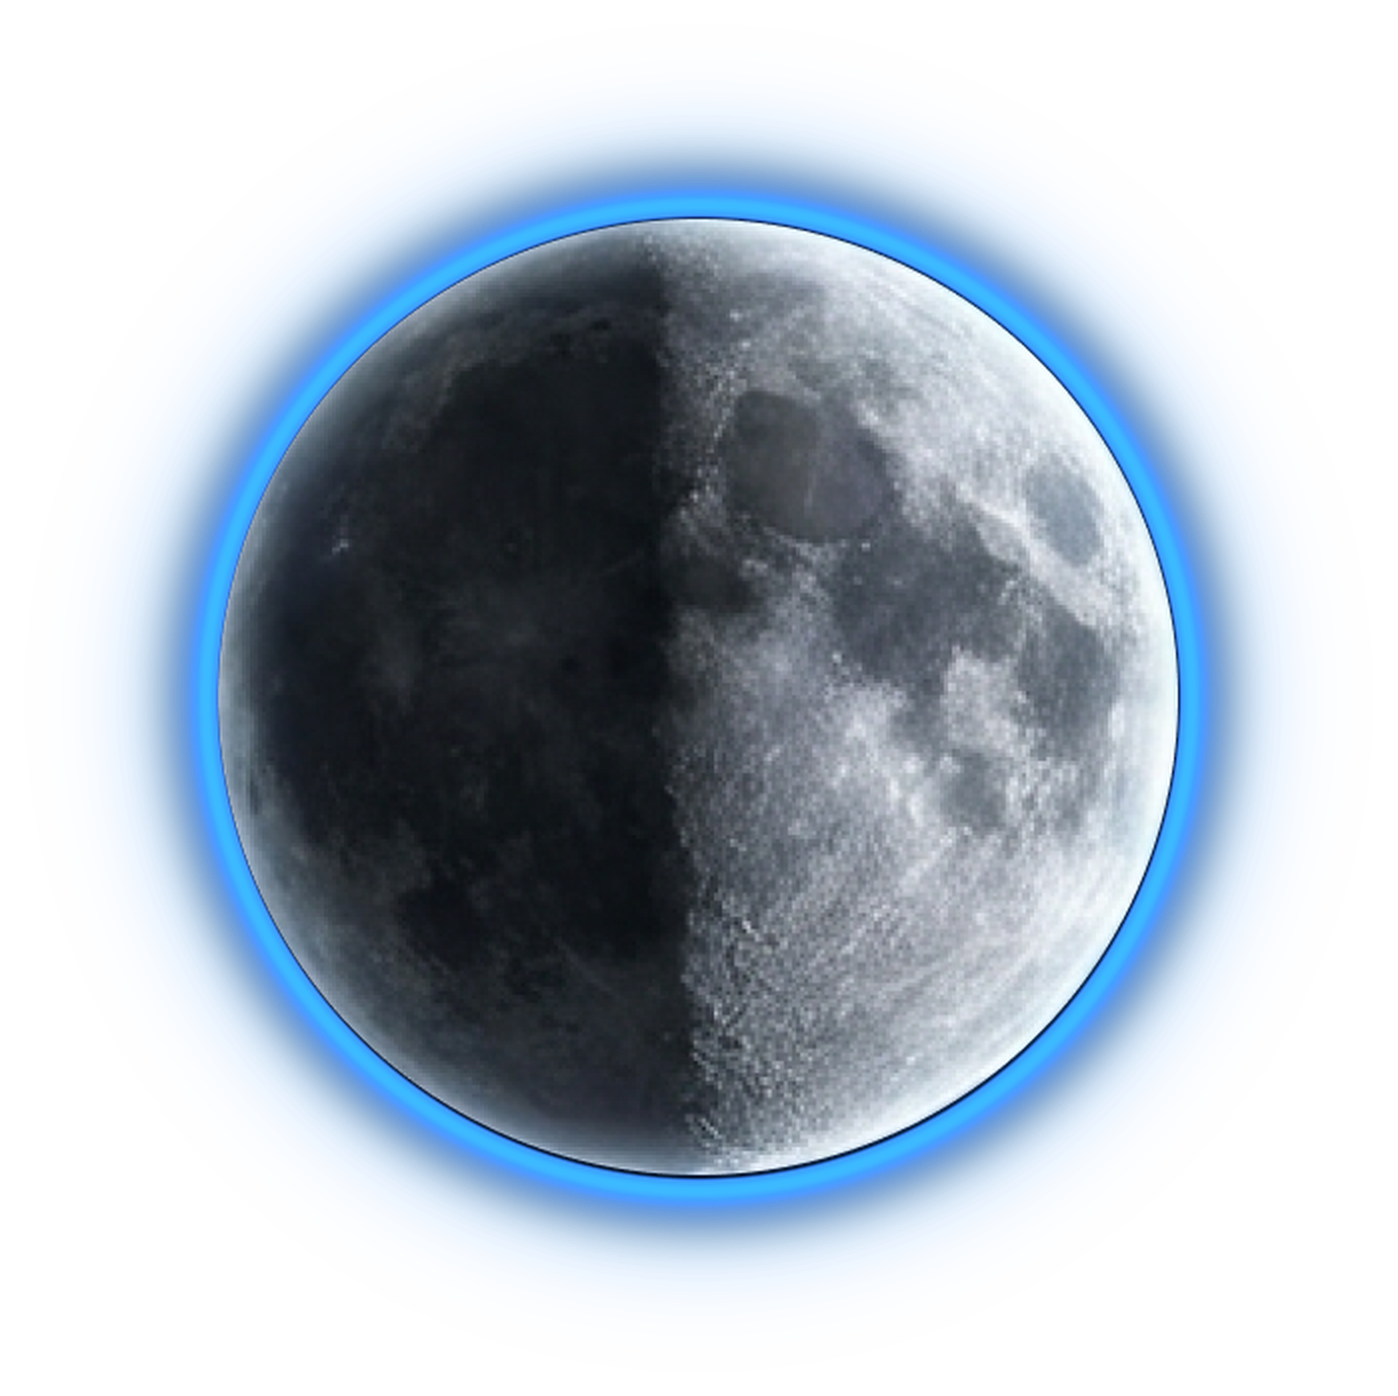
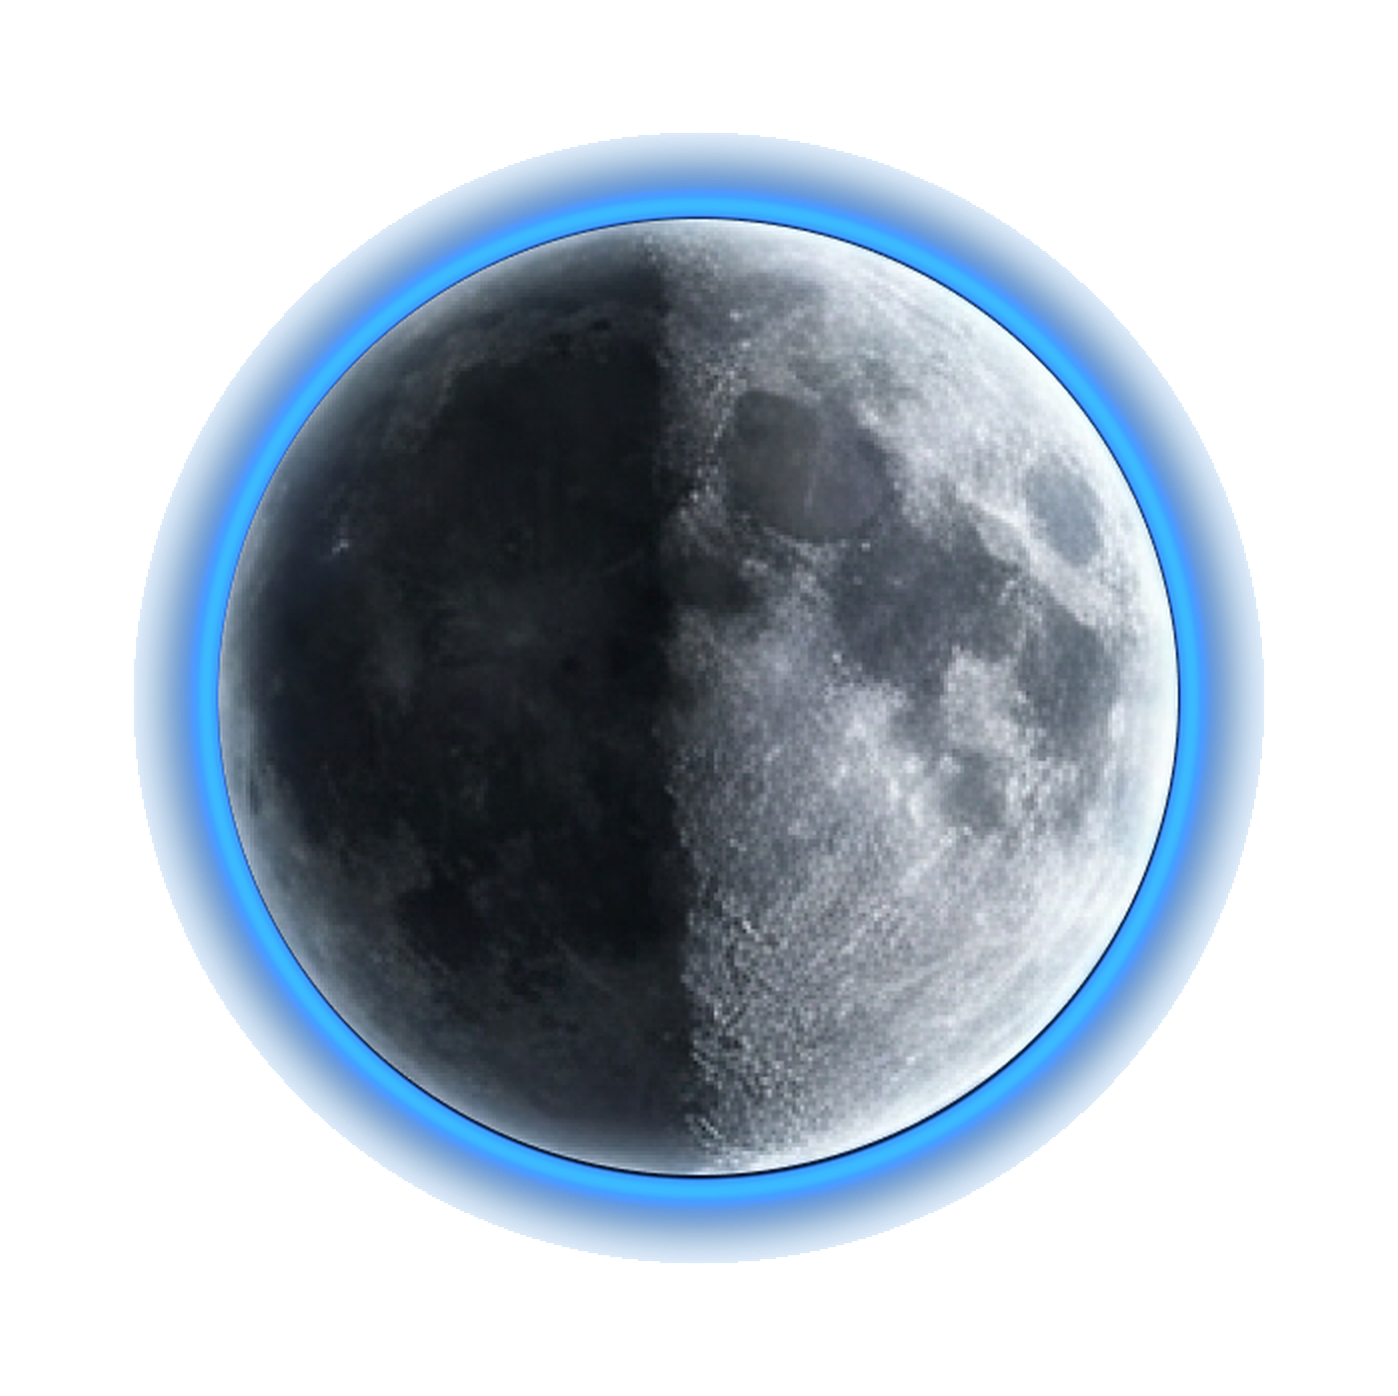
floating 3d moon

diff --git a/src/components/TodayScreen.jsx b/src/components/TodayScreen.jsx
@@ -1,11 +1,24 @@
-import React, { useState } from 'react';
+import React, { useState, useRef } from 'react';
 import { MoonPhase, SearchMoonPhase, MakeTime, EclipticGeoMoon } from 'astronomy-engine';
+import { motion, useScroll, useTransform } from 'framer-motion';
 import Moon from './Moon';
 import { tipsData } from '../data/dailyTips';
 
 export default function TodayScreen() {
   const today = new Date();
+  const scrollRef = useRef(null);
   
+  // Отслеживаем скролл внутри контейнера
+  const { scrollYProgress } = useScroll({
+    container: scrollRef,
+    offset: ["start start", "end start"]
+  });
+
+  // Применяем трансформации: скроллим вниз -> луна уменьшается и уезжает вверх
+  const moonScale = useTransform(scrollYProgress, [0, 0.4], [1, 0.5]);
+  const moonY = useTransform(scrollYProgress, [0, 0.4], [0, -100]);
+  const moonOpacity = useTransform(scrollYProgress, [0, 0.3], [1, 0]);
+
   const [inputText, setInputText] = useState('');
   const [messages, setMessages] = useState([]);
   const [isTyping, setIsTyping] = useState(false);
@@ -116,8 +129,9 @@ export default function TodayScreen() {
   return (
     <div className="w-full h-full relative overflow-hidden">
       
-      {/* СКРОЛЛ КОНТЕНТА (pt - отступ сверху, pb - отступ снизу под поле ввода) */}
+      {/* Привязываем ref для отслеживания скролла */}
       <div 
+        ref={scrollRef}
         className="w-full h-full overflow-y-auto px-4 pt-24 pb-32" 
         style={{ scrollbarWidth: 'none', msOverflowStyle: 'none' }}
       >
@@ -125,44 +139,52 @@ export default function TodayScreen() {
           {formattedDate}
         </div>
 
-        <Moon phase={astroData.phase} />
+        {/* Анимированная обертка вокруг Луны */}
+        <motion.div 
+          style={{ scale: moonScale, y: moonY, opacity: moonOpacity }}
+          className="origin-center"
+        >
+          <Moon />
+        </motion.div>
 
-        <div className="flex items-center justify-center gap-3 mt-0 mb-2">
-          <span className="text-3xl leading-none select-none">🌙</span>
-          <svg width="48" height="12" viewBox="0 0 48 12" fill="none" xmlns="http://www.w3.org/2000/svg">
-            <path d="M1 6H46M46 6L41 1M46 6L41 11" stroke="rgba(255,255,255,0.7)" strokeWidth="1.2" strokeLinecap="round" strokeLinejoin="round"/>
-          </svg>
-          <img src={`/zodiac/${astroData.zodiacImg}.png`} alt="Zodiac" className="w-8 h-8 object-contain rounded-md" />
-        </div>
-
-        <div className="text-center text-white text-[24px] font-medium mb-1" style={{ fontFamily: 'Gilroy, sans-serif' }}>
-          {astroData.phaseText}, {astroData.zodiacRu}, {astroData.lunarDay}-й день
-        </div>
-        
-        <div className="text-center mb-6">
-          <div className="text-[16px] text-gray-400 mb-1" style={{ fontFamily: 'Gilroy, sans-serif' }}>совет дня:</div>
-          <div className="text-[16px] text-white/90" style={{ fontFamily: 'Gilroy, sans-serif' }}>
-            {currentAdvice}
+        {/* Остальной контент (он будет прокручиваться за Луной) */}
+        <div className="relative z-20">
+          <div className="flex items-center justify-center gap-3 mt-0 mb-2">
+            <span className="text-3xl leading-none select-none">🌙</span>
+            <svg width="48" height="12" viewBox="0 0 48 12" fill="none" xmlns="http://www.w3.org/2000/svg">
+              <path d="M1 6H46M46 6L41 1M46 6L41 11" stroke="rgba(255,255,255,0.7)" strokeWidth="1.2" strokeLinecap="round" strokeLinejoin="round"/>
+            </svg>
+            <img src={`/zodiac/${astroData.zodiacImg}.png`} alt="Zodiac" className="w-8 h-8 object-contain rounded-md" />
           </div>
-        </div>
 
-        <div className="flex flex-col gap-3">
-          {cards.map((card, index) => (
-            <div 
-              key={index} 
-              onClick={() => handleSend(`Расскажи подробнее про: ${card.title} ${card.text}`)}
-              className="flex items-center bg-white/10 backdrop-blur-md border border-white/20 rounded-full px-4 py-3 transition-all duration-300 ease-in-out hover:bg-white/20 cursor-pointer active:scale-95"
-            >
-              <span className="text-2xl mr-3">{card.emoji}</span>
-              <span className="text-white text-[15px] lowercase" style={{ fontFamily: 'Gilroy, sans-serif' }}>
-                {card.title} {card.text}
-              </span>
+          <div className="text-center text-white text-[24px] font-medium mb-1" style={{ fontFamily: 'Gilroy, sans-serif' }}>
+            {astroData.phaseText}, {astroData.zodiacRu}, {astroData.lunarDay}-й день
+          </div>
+          
+          <div className="text-center mb-6">
+            <div className="text-[16px] text-gray-400 mb-1" style={{ fontFamily: 'Gilroy, sans-serif' }}>совет дня:</div>
+            <div className="text-[16px] text-white/90" style={{ fontFamily: 'Gilroy, sans-serif' }}>
+              {currentAdvice}
             </div>
-          ))}
+          </div>
+
+          <div className="flex flex-col gap-3">
+            {cards.map((card, index) => (
+              <div 
+                key={index} 
+                onClick={() => handleSend(`Расскажи подробнее про: ${card.title} ${card.text}`)}
+                className="flex items-center bg-white/10 backdrop-blur-md border border-white/20 rounded-full px-4 py-3 transition-all duration-300 ease-in-out hover:bg-white/20 cursor-pointer active:scale-95"
+              >
+                <span className="text-2xl mr-3">{card.emoji}</span>
+                <span className="text-white text-[15px] lowercase" style={{ fontFamily: 'Gilroy, sans-serif' }}>
+                  {card.title} {card.text}
+                </span>
+              </div>
+            ))}
+          </div>
         </div>
       </div>
 
-      {/* РАЗМЫТИЕ ФОНА ПРИ ЧАТЕ */}
       {messages.length > 0 && (
         <div 
           onClick={() => setMessages([])}
@@ -170,8 +192,7 @@ export default function TodayScreen() {
         ></div>
       )}
 
-      {/* ЧАТ И ПОЛЕ ВВОДА (fixed - прибито к низу экрана) */}
-      <div className="fixed bottom-0 left-0 right-0 w-full max-w-[400px] mx-auto p-4 pb-[calc(1rem+env(safe-area-inset-bottom))] bg-gradient-to-t from-[#0a0f1c] via-[#0a0f1c]/90 to-transparent z-[9999]">
+      <div className="fixed bottom-0 left-0 right-0 w-full max-w-[95%] mx-auto p-4 pb-[calc(1rem+env(safe-area-inset-bottom))] to-transparent z-[9999]">
         {messages.length > 0 && (
           <div className="mb-4 max-h-60 overflow-y-auto flex flex-col gap-2 relative" style={{ scrollbarWidth: 'none' }}>
             <button 

diff --git a/src/index.css b/src/index.css
@@ -1,68 +1,29 @@
+@import url('https://fonts.googleapis.com/css2?family=Manrope:wght@400;500;600;700&display=swap');
+
 @tailwind base;
 @tailwind components;
 @tailwind utilities;
 
-@layer base {
-  html {
-    scroll-behavior: smooth;
-    -webkit-tap-highlight-color: transparent;
-  }
-
-  body {
-    @apply bg-black text-white;
-    font-family: 'Montserrat', 'Gilroy', sans-serif;
-    margin: 0;
-    overscroll-behavior: none;
-  }
-
-  #root {
-    min-height: 100vh;
-  }
+@font-face {
+  font-family: 'Gilroy';
+  src: local('Gilroy'), url('/fonts/Gilroy/Gilroy-Regular.woff2') format('woff2');
+  font-weight: normal;
+  font-style: normal;
 }
 
-@layer components {
-  .glass-card {
-    @apply bg-white/10 backdrop-blur-md border border-white/20 rounded-full p-4;
-  }
+html, body {
+  margin: 0;
+  padding: 0;
+  height: 100%;
+  overflow: hidden;
+  background-color: #0a0f1c; /* Темный фон для всего сайта */
+  color: white;
+  font-family: 'Gilroy', 'Manrope', sans-serif;
+  position: fixed;
+  width: 100%;
 }
 
-* {
-  box-sizing: border-box;
-}
-
-/* Активная кнопка навигации: градиентная обводка, стекло, без заливки */
-.nav-btn-active {
-  position: relative;
-  border-radius: 9999px;
-  background: rgba(255, 255, 255, 0.05);
-  backdrop-filter: blur(10px);
-  box-shadow: 0 0 15px rgba(100, 150, 255, 0.15);
-  padding: 8px 24px;
-}
-
-.nav-btn-active::before {
-  content: "";
-  position: absolute;
-  inset: 0;
-  border-radius: 9999px;
-  padding: 1px;
-  background: linear-gradient(135deg, rgba(255,255,255,0.8) 0%, rgba(255,255,255,0.1) 50%, rgba(255,255,255,0) 100%);
-  -webkit-mask: linear-gradient(#fff 0 0) content-box, linear-gradient(#fff 0 0);
-  -webkit-mask-composite: xor;
-  mask-composite: exclude;
-  pointer-events: none;
-}
-
-/* Скрыть визуальную полосу прокрутки */
-::-webkit-scrollbar {
-  display: none;
-  width: 0;
-  height: 0;
-}
-html {
-  scrollbar-width: none; /* Firefox */
-}
-
+/* Анимация кометы */
 @keyframes shoot {
   0% { transform: translateX(0) translateY(0) rotate(-45deg); opacity: 1; }
   100% { transform: translateX(-1000px) translateY(500px) rotate(-45deg); opacity: 0; }
@@ -75,8 +36,7 @@ html {
   background: #fff;
   border-radius: 50%;
   box-shadow: 0 0 0 2px rgba(255,255,255,0.1), 0 0 0 4px rgba(255,255,255,0.1), 0 0 15px 2px rgba(255,255,255,1);
-  /* 16s — это в 4 раза медленнее */
-  animation: shoot 16s linear infinite; 
+  animation: shoot 16s linear infinite;
   z-index: 1;
   pointer-events: none;
 }
@@ -91,14 +51,7 @@ html {
   background: linear-gradient(90deg, rgba(255,255,255,1), transparent);
 }
 
-html, body {
-  margin: 0;
-  padding: 0;
-  height: 100%;
-  overflow: hidden;
-  position: fixed;
-  width: 100%;
-  -webkit-overflow-scrolling: touch;
+/* Скрываем скроллбар */
+::-webkit-scrollbar {
+  display: none;
 }
-
-/* ... остальной твой код (tailwind, meteor и т.д.) ... */

diff --git a/src/components/Moon.jsx b/src/components/Moon.jsx
@@ -1,53 +1,21 @@
 import React from 'react';
-import { motion } from 'framer-motion';
 
-const Moon = ({ phase = 0.5 }) => {
-  const getMoonImage = (p) => {
-    if (p < 0.05 || p > 0.95) return '/moon_phases/new.png';
-    if (p < 0.20) return '/moon_phases/waxing_crescent.png';
-    if (p < 0.30) return '/moon_phases/first_quarter.png';
-    if (p < 0.45) return '/moon_phases/waxing_gibbous.png';
-    if (p < 0.55) return '/moon_phases/full.png';
-    if (p < 0.70) return '/moon_phases/waning_gibbous.png';
-    if (p < 0.80) return '/moon_phases/last_quarter.png';
-    return '/moon_phases/waning_crescent.png';
-  };
-
+const Moon = () => {
   return (
-    // motion.div создает эффект парения и легкого 3D-покачивания
-    <motion.div 
-      className="relative w-64 h-64 md:w-80 md:h-80 mx-auto flex items-center justify-center"
-      animate={{ 
-        y: [0, -10, 0], // Плавает вверх-вниз на 10 пикселей
-        rotateY: [0, 15, -15, 0], // Легкое 3D-покачивание
-        rotateX: [0, -5, 5, 0]
-      }}
-      transition={{ 
-        duration: 8, // Один цикл длится 8 секунд
-        repeat: Infinity, // Бесконечно
-        ease: "easeInOut"
-      }}
-      style={{ perspective: 1000 }}
-    >
-      
-      {/* Свечение */}
-      <div className="absolute inset-0 rounded-full shadow-[0_0_60px_20px_rgba(59,130,246,0.4)] pointer-events-none"></div>
-
-      {/* Картинка Луны с эффектом 3D-шара */}
-      <div className="relative w-full h-full rounded-full overflow-hidden z-10 bg-transparent flex items-center justify-center">
-        <img 
-          src={getMoonImage(phase)} 
-          alt="Moon Phase" 
-          className="w-full h-full object-contain transition-opacity duration-1000 ease-in-out"
-          style={{ 
-            mixBlendMode: 'screen',
-            
-        />
-        {/* Дополнительный слой тени для объема */}
-        <div className="absolute inset-0 rounded-full shadow-[inset_-10px_-10px_20px_rgba(0,0,0,0.6)] pointer-events-none"></div>
-      </div>
-
-    </motion.div>
+    <div className="relative w-64 h-64 md:w-80 md:h-80 mx-auto flex items-center justify-center">
+      <img 
+        src="/moon.png" 
+        alt="Moon" 
+        className="w-full h-full object-contain"
+        style={{ 
+          /* Делает черный фон прозрачным */
+          mixBlendMode: 'screen',
+          /* Мягко растворяет края картинки (от 60% к 75%) */
+          maskImage: 'radial-gradient(circle, black 60%, transparent 75%)',
+          WebkitMaskImage: 'radial-gradient(circle, black 60%, transparent 75%)'
+        }}
+      />
+    </div>
   );
 };
 

diff --git a/src/App.jsx b/src/App.jsx
@@ -16,18 +16,18 @@ export default function App() {
   const phaseAngle = MoonPhase(today);
   const phase = (1 - Math.cos(phaseAngle * Math.PI / 180)) / 2;
 
-  // Функция обработки свайпа
+  // Обработка свайпа
   const handleDragEnd = (event, info) => {
     const swipe = info.offset.x;
     if (swipe < -50 && currentIndex < tabs.length - 1) {
-      setActiveTab(tabs[currentIndex + 1]); // Свайп влево
+      setActiveTab(tabs[currentIndex + 1]);
     } else if (swipe > 50 && currentIndex > 0) {
-      setActiveTab(tabs[currentIndex - 1]); // Свайп вправо
+      setActiveTab(tabs[currentIndex - 1]);
     }
   };
 
   return (
-    <div className="relative w-full max-w-[400px] h-[100dvh] mx-auto overflow-hidden bg-[#0a0f1c] text-white font-sans">
+    <div className="relative w-full h-[100dvh] overflow-hidden bg-[#0a0f1c] text-white font-sans">
       
       {/* ФОН */}
       <motion.div 
@@ -41,7 +41,7 @@ export default function App() {
       <div className="meteor top-[10%] right-[-10%]" style={{ animationDelay: '0s' }}></div>
       <div className="meteor top-[40%] right-[-20%]" style={{ animationDelay: '8s' }}></div>
 
-      {/* ГОРИЗОНТАЛЬНЫЙ ПРОКРУТ (Свайпы) */}
+      {/* СВАЙП-КАРУСЕЛЬ */}
       <motion.div
         className="relative w-full h-full z-5 flex cursor-grab active:cursor-grabbing"
         style={{ width: '300vw' }}
@@ -63,7 +63,7 @@ export default function App() {
         </div>
       </motion.div>
 
-      {/* ПАРЯЩАЯ ЛУНА ДЛЯ ДРУГИХ ЭКРАНОВ */}
+      {/* ПАРЯЩАЯ ЛУНА (вызов твоего рабочего компонента) */}
       {activeTab !== 'today' && (
         <motion.div
           initial={{ scale: 0.5, opacity: 0 }}
@@ -77,8 +77,8 @@ export default function App() {
         </motion.div>
       )}
 
-      {/* НАВИГАЦИЯ (fixed) */}
-      <div className="fixed top-0 left-0 right-0 w-full max-w-[400px] mx-auto z-50 bg-gradient-to-b from-[#0a0f1c] via-[#0a0f1c]/90 to-transparent pb-4 pt-2">
+      {/* НАВИГАЦИЯ */}
+      <div className="absolute top-0 left-0 w-full z-50 bg-gradient-to-b from-[#0a0f1c] via-[#0a0f1c]/80 to-transparent pb-4 pt-2">
         <Navigation activeTab={activeTab} setActiveTab={setActiveTab} />
       </div>
 
